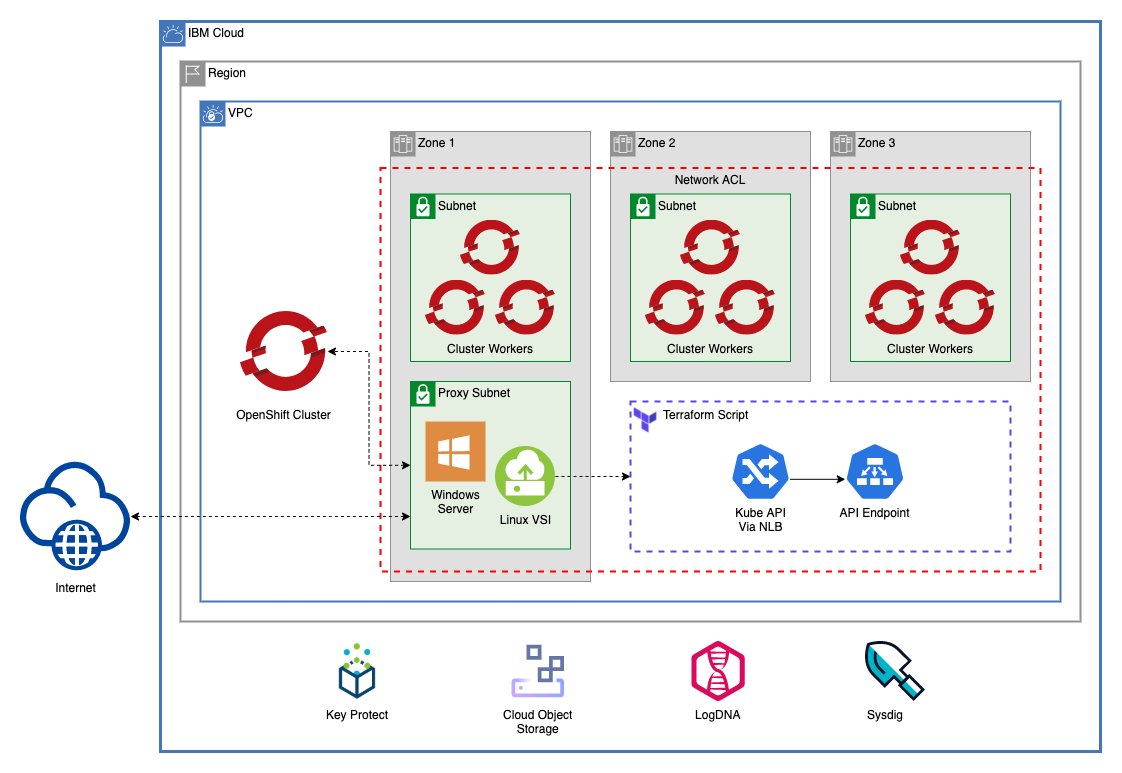
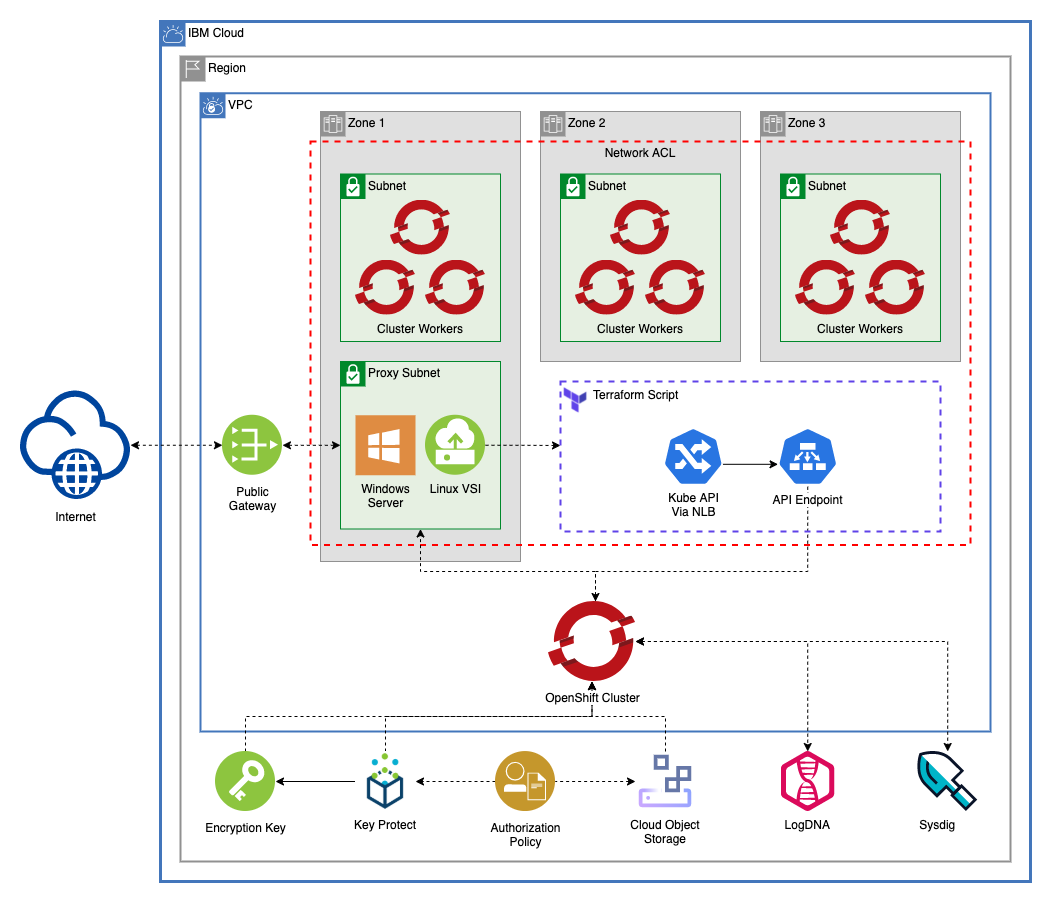
Added missing ACL rule updated image. More docs, better value

diff --git a/README.md b/README.md
@@ -12,11 +12,11 @@ This template creates a multizone VPC, an OpenShift cluster on that VPC, and bas
 
 ## IBM Cloud Resources
 
+This module creates IBM Cloud resources that exist outside of the VPC. These resources can be found in the [./resources](./resources) module.
+
 ### Resources
 
 This module creates an IBM Cloud Object Stroage instance required for the creation of an OpenShift cluster. This module also creates a Key Protect instance and a Key Protect Root Key to encrypt the cluster. To ensure that the COS instance has access to the cluster, an authorization policy is created to allow the Key Protect instance to read from the COS instance.
-
-These resources can be found in the [./resources](./resources) module.
 
 ### Logging and Monitoring
 
@@ -28,9 +28,15 @@ In addition, this module creates a LogDNA instance and a Sysdig instance.
 
 This module creates a VPC with any number of subnets across 1, 2, or 3 zones. These subnets are where the OpenShift cluster will be provisioned. It also creates a single proxy subnet where the bastion Windows and Linux VSI will be created.
 
+The VPC resources can be found in the [multizone_vpc](/multizone_vpc) folder.
+
+-----
+
 ### Proxy Subnet
 
+In addition to the subnets created for the cluster, a proxy subnet is created in zone 1 by default. A public gateway is attached to this subnet to allow the VSI provisioned inside to communicate with the internet.
 
+-----
 
 ### Access Control List
 
@@ -38,55 +44,57 @@ The VPC in this template uses an Access Control List to direct traffic. This tra
 
 The following ACL Rules are created automatically on provision:
 
-#### Inbound Rules
+#### Static ACL Rules
 
-##### Static Inbound Rules
+These ACL rules will be automatically created for the VPC regardless of subnet CIDR blocks:
 
-Rule                                                          | Allow / Deny | Protocol | Source         | Source Port   | Destination | Desination Port
---------------------------------------------------------------|--------------|----------|----------------|---------------|-------------|-----------------
-Allow Worker Nodes to be Created                              | Allow        | All      | 161.26.0.0/16  | -             | 0.0.0.0/0   | -
-Allow communication to Services over Private Service Endpoint | Allow        | All      | 166.8.0.0/14   | -             | 0.0.0.0/0   | -
-Allow incoming traffic requests to apps on worker nodes       | Allow        | TCP      | 0.0.0.0/0      | 30000 - 32767 | 0.0.0.0/0   | -
-Allow load balancer and ingress app incoming traffic          | Allow        | TCP      | 0.0.0.0/0      | Any           | 0.0.0.0/0   | 443
+Direction | Rule                                                          | Allow / Deny | Protocol | Source         | Source Port   | Destination   | Desination Port
+----------|---------------------------------------------------------------|--------------|----------|----------------|---------------|---------------|-----------------
+Inbound   | Allow Worker Nodes to be Created                              | Allow        | All      | 161.26.0.0/16  | -             | 0.0.0.0/0     | -
+Inbound   | Allow communication to Services over Private Service Endpoint | Allow        | All      | 166.8.0.0/14   | -             | 0.0.0.0/0     | -
+Inbound   | Allow incoming traffic requests to apps on worker nodes       | Allow        | TCP      | 0.0.0.0/0      | 30000 - 32767 | 0.0.0.0/0     | -
+Inbound   | Allow load balancer and ingress app incoming traffic          | Allow        | TCP      | 0.0.0.0/0      | Any           | 0.0.0.0/0     | 443
+Outbound  | Allow Worker Nodes to be Created                              | Allow        | All      | 0.0.0.0/0      | -             | 161.26.0.0/16 | -
+Outbound  | Allow communication to Services over Private Service Endpoint | Allow        | All      | 0.0.0.0/0      | -             | 166.8.0.0/14  | -
+Outbound  | Allow incoming traffic requests to apps on worker nodes       | Allow        | TCP      | 0.0.0.0/0      | 30000 - 32767 | 0.0.0.0/0     | -
+Outbound  | Allow load balancer and ingress app incoming traffic          | Allow        | TCP      | 0.0.0.0/0      | Any           | 0.0.0.0/0     | 443
 
-##### Dynamic Inbound Rules
+#### Dynamic ACL Rules
 
-For each subnet in the VPC, a rule is created to allow inbound traffic from that subnet. In addition, a rule is created to allow all traffic to the proxy VSI subnet. Here is an example of the dynamically created rules using the CIDR blocks found in [variables.tf](variables.tf).
+For each subnet in the VPC, a rule is created to allow inbound and outbound traffic from that subnet. In addition, a rule is created to allow all traffic to the proxy VSI subnet. Here is an example of the dynamically created rules using the CIDR blocks found in [variables.tf](variables.tf).
 
-Allow / Deny | Protocol | Source         | Source Port   | Destination    | Desination Port
--------------|----------|----------------|---------------|----------------|-----------------
-Allow        | All      | 10.10.10.0/28  | -             | 0.0.0.0/0      | -
-Allow        | All      | 10.40.10.0/28  | -             | 0.0.0.0/0      | -
-Allow        | All      | 10.70.10.0/28  | -             | 0.0.0.0/0      | -
-Allow        | All      | 10.100.10.0/28 | -             | 0.0.0.0/0      | -
-Allow        | All      | 0.0.0.0/0      | -             | 10.100.10.0/28 | -
+Direction | Allow / Deny | Protocol | Source         | Source Port   | Destination    | Desination Port
+----------|--------------|----------|----------------|---------------|----------------|-----------------
+Inbound   | Allow        | All      | 10.10.10.0/24  | -             | 0.0.0.0/0      | -
+Inbound   | Allow        | All      | 10.40.10.0/24  | -             | 0.0.0.0/0      | -
+Inbound   | Allow        | All      | 10.70.10.0/24  | -             | 0.0.0.0/0      | -
+Inbound   | Allow        | All      | 10.100.10.0/24 | -             | 0.0.0.0/0      | -
+Inbound   | Allow        | All      | 0.0.0.0/0      | -             | 10.100.10.0/24 | -
+Outbound  | Allow        | All      | 0.0.0.0/0      | -             | 10.10.10.0/24  | -
+Outbound  | Allow        | All      | 0.0.0.0/0      | -             | 10.40.10.0/24  | -
+Outbound  | Allow        | All      | 0.0.0.0/0      | -             | 10.70.10.0/24  | -
+Outbound  | Allow        | All      | 0.0.0.0/0      | -             | 10.100.10.0/24 | -
+Outbound  | Allow        | All      | 10.100.10.0/24 | -             | 0.0.0.0/0      | -
 
-#### Outbound Rules
+#### Adding Additional Rules
 
-##### Static Outbound Rules
+The `multizone_vpc` module accepts an `acl_rules` argument that allows for the creation of additional ACL rules.
 
-Rule                                                          | Allow / Deny | Protocol | Source         | Source Port   | Destination   | Desination Port
---------------------------------------------------------------|--------------|----------|----------------|---------------|---------------|-----------------
-Allow Worker Nodes to be Created                              | Allow        | All      | 0.0.0.0/0      | -             | 161.26.0.0/16 | -
-Allow communication to Services over Private Service Endpoint | Allow        | All      | 0.0.0.0/0      | -             | 166.8.0.0/14  | -
-Allow incoming traffic requests to apps on worker nodes       | Allow        | TCP      | 0.0.0.0/0      | 30000 - 32767 | 0.0.0.0/0     | -
-Allow load balancer and ingress app incoming traffic          | Allow        | TCP      | 0.0.0.0/0      | Any           | 0.0.0.0/0     | 443
+-----
 
-##### Dynamic Outbound Rules
+### Security Group Rule
 
-For each subnet in the VPC, a rule is created to allow outbound traffic from that subnet. In addition, a rule is created to allow all traffic to the proxy VSI subnet. Here is an example of the dynamically created rules using the CIDR blocks found in [variables.tf](variables.tf).
+A security group rule is created for the default VPC security group to allow all inbound traffic within the VPC.
 
-Allow / Deny | Protocol | Source         | Source Port   | Destination    | Desination Port
--------------|----------|----------------|---------------|----------------|-----------------
-Allow        | All      | 0.0.0.0/0      | -             | 10.10.10.0/28  | -
-Allow        | All      | 0.0.0.0/0      | -             | 10.40.10.0/28  | -
-Allow        | All      | 0.0.0.0/0      | -             | 10.70.10.0/28  | -
-Allow        | All      | 0.0.0.0/0      | -             | 10.100.10.0/28 | -
-Allow        | All      | 10.100.10.0/28 | -             | 0.0.0.0/0      | -
+The `multizone_vpc` module accepts a `security_group_rules` argument that allows for the creation of additional rules to be added to the default VPC security group.
 
 -----
 
 ## ROKS Cluster
+
+This module creates a Red Hat OpenShift Cluster across all the subnets created for the [VPC](##VPC) except for the proxy subnet. This module can also dynamically create additional worker pools across the subnet. When the cluster has finished creating, the module will also install LogDNA and Sysdig agents onto the cluster.
+
+The cluster resources can be found in the [roks_cluster](/roks_cluster) folder.
 
 -----
 
@@ -104,8 +112,8 @@ unique_id                       | string                                        
 ibm_region                      | string                                                                               | IBM Cloud region where all resources will be deployed                                                                                                                                                                                                                                                                                                                                                                                                         | 
 resource_group                  | string                                                                               | Name of resource group where all infrastructure will be provisioned                                                                                                                                                                                                                                                                                                                                                                                           | `"asset-development"`
 classic_access                  | bool                                                                                 | Enable VPC Classic Access. Note: only one VPC per region can have classic access                                                                                                                                                                                                                                                                                                                                                                              | `false`
-cidr_blocks                     | object({ zone-1 = list(string) zone-2 = list(string) zone-3 = list(string) })        | An object containing lists of CIDR blocks. Each CIDR block will be used to create a subnet                                                                                                                                                                                                                                                                                                                                                                    | `{`<br>`zone-1 = [`<br>`"10.10.10.0/28",`<br>`],`<br>`zone-2 = [`<br>`"10.40.10.0/28",`<br>`],`<br>`zone-3 = [`<br>`"10.70.10.0/28",`<br>`]`<br>`}`
-proxy_subnet_cidr               | string                                                                               | CIDR subnet for OpenShift Cluster Proxy. This subnet will have an attached public gateway. This subnet will be created in zone 1 of the region.                                                                                                                                                                                                                                                                                                               | `"10.100.10.0/28"`
+cidr_blocks                     | object({ zone-1 = list(string) zone-2 = list(string) zone-3 = list(string) })        | An object containing lists of CIDR blocks. Each CIDR block will be used to create a subnet                                                                                                                                                                                                                                                                                                                                                                    | `{`<br>`zone-1 = [`<br>`"10.10.10.0/24",`<br>`],`<br>`zone-2 = [`<br>`"10.40.10.0/24",`<br>`],`<br>`zone-3 = [`<br>`"10.70.10.0/24",`<br>`]`<br>`}`
+proxy_subnet_cidr               | string                                                                               | CIDR subnet for OpenShift Cluster Proxy. This subnet will have an attached public gateway. This subnet will be created in zone 1 of the region.                                                                                                                                                                                                                                                                                                               | `"10.100.10.0/24"`
 cluster_machine_type            | string                                                                               | The flavor of VPC worker node to use for your cluster. Use `ibmcloud ks flavors` to find flavors for a region.                                                                                                                                                                                                                                                                                                                                                | `"bx2.4x16"`
 workers_per_zone                | number                                                                               | Number of workers to provision in each subnet                                                                                                                                                                                                                                                                                                                                                                                                                 | `2`
 disable_public_service_endpoint | bool                                                                                 | Disable public service endpoint for cluster                                                                                                                                                                                                                                                                                                                                                                                                                   | `true`
